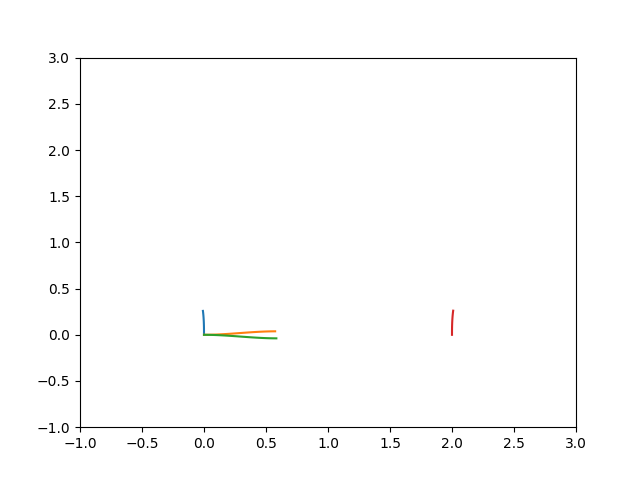
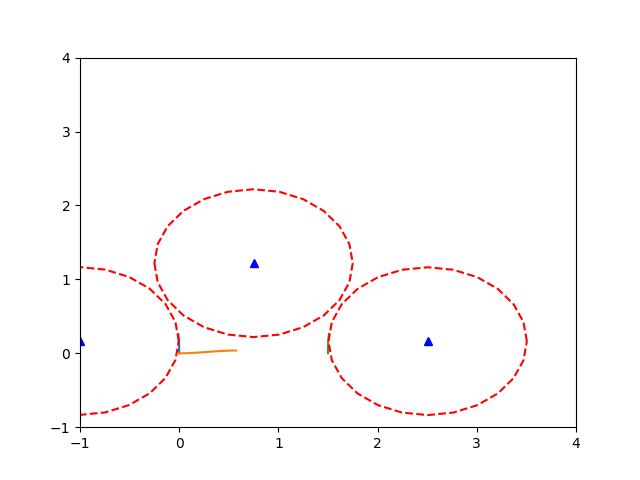
added orientation data to relocatePath function, began checkC1C2 function

diff --git a/BackmanAlgorithm/SmoothPlanner.py b/BackmanAlgorithm/SmoothPlanner.py
@@ -145,9 +145,11 @@ class SmoothPathPlanner:
         elif (len(kTraj) < len(vTraj)) and fromStart:  # cut from start of vTraj
             vTraj = vTraj[len(vTraj) - len(kTraj):len(vTraj)]
         elif (len(kTraj) > len(vTraj)) and not fromStart:
-            vTraj = np.append(vTraj, np.array([vTraj[-1] for i in range((len(kTraj) - len(vTraj)))]), axis=0)
+            vTraj = np.append(vTraj, np.array(
+                [vTraj[-1] for i in range((len(kTraj) - len(vTraj)))]), axis=0)
         elif (len(kTraj) > len(vTraj)) and fromStart:
-            vTraj = np.append(np.array([vTraj[0] for i in range(len(kTraj) - len(vTraj))]), vTraj, axis = 0)
+            vTraj = np.append(
+                np.array([vTraj[0] for i in range(len(kTraj) - len(vTraj))]), vTraj, axis=0)
 
         return {'kTraj': kTraj, 'vTraj': vTraj}
 
@@ -158,47 +160,48 @@ class SmoothPathPlanner:
         """
 
         # find zero point in kTraj
-        kValArray=[np.abs(i[0]) for i in kTraj]
-        vValArray=[np.abs(i[0]) for i in vTraj]
-        kZeroIndex=np.argmin(kValArray)
-        vZeroIndex=np.argmin(vValArray)
+        kValArray = [np.abs(i[0]) for i in kTraj]
+        vValArray = [np.abs(i[0]) for i in vTraj]
+        kZeroIndex = np.argmin(kValArray)
+        vZeroIndex = np.argmin(vValArray)
 
-        kZeroTime=kTraj[kZeroIndex][1]
+        kZeroTime = kTraj[kZeroIndex][1]
 
         if kZeroIndex < vZeroIndex:
-            diff=vZeroIndex - kZeroIndex
-            kTrajExtension=np.array(
+            diff = vZeroIndex - kZeroIndex
+            kTrajExtension = np.array(
                 [[0, kTraj[kZeroIndex] + (i+1)*dT] for i in range(diff)])
-            kTraj=np.insert(kTraj, kZeroIndex, kTrajExtension, axis = 0)
+            kTraj = np.insert(kTraj, kZeroIndex, kTrajExtension, axis=0)
 
             return self.makeTrajectoriesEqualLength(kTraj, vTraj)
         else:
-            diff=kZeroIndex - vZeroIndex
-            vTrajExtension=np.array(
+            diff = kZeroIndex - vZeroIndex
+            vTrajExtension = np.array(
                 [[0, vTraj[kZeroIndex] + (i+1)*dT] for i in range(diff)])
-            vTraj=np.insert(vTraj, vZeroIndex, vTrajExtension, axis = 0)
+            vTraj = np.insert(vTraj, vZeroIndex, vTrajExtension, axis=0)
 
             return self.makeTrajectoriesEqualLength(kTraj, vTraj)
 
-    def relocatePath(self, path, point, relocateStartPoint = True):
+    def relocatePath(self, path, point, relocateStartPoint=True):
         """Use Homogenous Transform to relocate a path to a point
             TODO: optimize function and use Homogenous TF efficiently
+            TODO: get orienttion values
         """
 
         if not (len(path[1]) == len(point)):
             raise ValueError("Path and Point are not of suitable dimension")
 
-        index=0 if relocateStartPoint else -1
-        pathPoint=path[index]
-        tf=point - pathPoint
-        H=np.array([[cos(tf[2]), -sin(tf[2]), 0],
+        index = 0 if relocateStartPoint else -1
+        pathPoint = path[index]
+        tf = point - pathPoint
+        H = np.array([[cos(tf[2]), -sin(tf[2]), 0],
                       [sin(tf[2]), cos(tf[2]), 0], [0, 0, 1]])
-        pathHomogenous=np.array(
+        pathHomogenous = np.array(
             [[i[0]-pathPoint[0], i[1]-pathPoint[1], 1] for i in path]).T
-        pathTF=np.matmul(H, pathHomogenous).T * [1, 1, 0]
+        pathTF = np.matmul(H, pathHomogenous).T * [1, 1, 0] + np.array([[0, 0, i[2]] for i in path])
 
-        pathTF=(pathTF) + [point[0] - pathTF[-1]
-                             [0], point[1] - pathTF[-1][1],  0]
+        pathTF = (pathTF) + [point[0] - pathTF[-1]
+                             [0], point[1] - pathTF[-1][1],  tf[2]]
 
         return pathTF
 
@@ -211,27 +214,82 @@ class SmoothPathPlanner:
         k_C2 = self.k_C2
         k_C3 = self.k_C3
 
-        omega_S2_tC2 = np.array([S2[-1][0] - (k_C2**-1)*sin(S2[-1][2]), S2[-1][1] + (k_C2**-1)*cos(S2[-1][2])])
-        omega_S2_tS2 = np.array([S2[0][0] - (k_C1**-1)*sin(S2[0][2]), S2[0][1] + (k_C1**-1)*cos(S2[0][2])])
+        omega_S2_tC2 = np.array(
+            [S2[-1][0] - (k_C2**-1)*sin(S2[-1][2]), S2[-1][1] + (k_C2**-1)*cos(S2[-1][2])])
+        omega_S2_tS2 = np.array(
+            [S2[0][0] - (k_C1**-1)*sin(S2[0][2]), S2[0][1] + (k_C1**-1)*cos(S2[0][2])])
 
-        omega_S3_tC3 = np.array([S3[-1][0] - (k_C3**-1)*sin(S3[-1][2]), S3[-1][1] + (k_C3**-1)*cos(S3[-1][2])])
-        omega_S3_tS3 = np.array([S3[0][0] - (k_C2**-1)*sin(S3[0][2]), S3[0][1] + (k_C2**-1)*cos(S3[0][2])])
+        omega_S3_tC3 = np.array(
+            [S3[-1][0] - (k_C3**-1)*sin(S3[-1][2]), S3[-1][1] + (k_C3**-1)*cos(S3[-1][2])])
+        omega_S3_tS3 = np.array(
+            [S3[0][0] - (k_C2**-1)*sin(S3[0][2]), S3[0][1] + (k_C2**-1)*cos(S3[0][2])])
 
-        omega_k = np.array([S1[-1][0] - (k_C1**-1)*sin(S1[-1][2]), S1[-1][1] + (k_C1**-1)*cos(S1[-1][2])])
-        omega_kplus2 = np.array([S4[0][0] - (k_C3**-1)*sin(S4[0][2]), S4[0][1] + (k_C3**-1)*cos(S4[0][2])])
+        self.omega_k = np.array(
+            [S1[-1][0] - (k_C1**-1)*sin(S1[-1][2]), S1[-1][1] + (k_C1**-1)*cos(S1[-1][2])])
+        self.omega_kplus2 = np.array(
+            [S4[0][0] - (k_C3**-1)*sin(S4[0][2]), S4[0][1] + (k_C3**-1)*cos(S4[0][2])])
 
-        d1 = np.linalg.norm(omega_S4_tS4 - omega_S1_tC1)
+        d1 = np.linalg.norm(self.omega_kplus2 - self.omega_k)
         d2 = np.linalg.norm(omega_S2_tC2 - omega_S2_tS2)
-        d3 = np.linalg.norm(omega_kplus2 - omega_k)
+        d3 = np.linalg.norm(omega_S3_tC3 - omega_S3_tS3)
 
         l1 = (d2**2 - d3**2 + d1**2)/(2*d1)
-        if(l1 < d2):
+        if(l1 > d2):
             return False
         l2 = np.sqrt(d2**2 - l1**2)
 
         signVal = 1 if (k_C2 < 0) else -1
+        self.omega_kplus1 = self.omega_k + l1*(self.omega_kplus2 - self.omega_k)/d1 + signVal*l2*np.matmul(
+            np.array([[0, -1], [1, 0]]), (self.omega_kplus2 - self.omega_k))/d1
 
-        return omega_k + l1*(omega_kplus2 - omega_k)/d1 + signVal*l2*np.matmul(np.array([[0, -1], [1, 0]]), (omega_kplus2 - omega_k))/d1
+        return self.omega_kplus1
+
+    def searchC1C2(self):
+        S1 = self.S1
+        S2 = self.S2
+        S3 = self.S3
+        S4 = self.S4
+        k_C1 = self.k_C1
+        k_C2 = self.k_C2
+        k_C3 = self.k_C3
+        omega_1 = self.omega_k
+        omega_2 = self.omega_kplus1
+        omega_3 = self.omega_kplus2
+
+        searchResolution = 200
+        serachTolerance = 0.5
+        thetaSearch = np.linspace(0, 2*np.pi, searchResolution)
+
+        thetaAB = S2[-1][2] - S2[0][2]
+        rAB = np.array([S2[-1][0] - S2[0][0], S2[-1][1] - S2[0][1]])
+        
+        bestNorm = 100000
+
+        for theta in thetaSearch:
+            thetaT = theta + np.pi/2.0
+            R = np.array([[cos(thetaT), -sin(thetaT)], [sin(thetaT), cos(thetaT)]])
+            rAB = np.matmul(R,rAB)
+            pointA = np.array(
+                [(k_C1**-1)*cos(theta) + omega_1[0], (k_C1**-1)*sin(theta) + omega_1[1]])
+            thetaTangentA = np.pi/2.0 + theta
+            pointB = np.array([pointA[0] + rAB[0], pointA[0] + rAB[1]])
+            thetaTangentB = np.pi/2.0 + thetaAB
+
+            theta2 = -1*np.pi/2.0 - thetaTangentB
+
+            pointOnCircle2 = np.array(
+                [-1*(k_C2**-1)*cos(-1*theta2) + omega_2[0], (k_C2**-1)*sin(-1*theta2) + omega_2[1]])
+
+            currentNorm = np.linalg.norm(pointB - pointOnCircle2)
+            if (currentNorm < bestNorm):
+                bestNorm = currentNorm
+                bestPoint = pointA
+
+        if (bestNorm < serachTolerance):
+            return np.array([bestPoint[0], bestPoint[1], -1*thetaTangentB])
+        else:
+            raise ValueError("Search of C1 C2 failed.")
+            print("Best Norm", bestNorm)
 
     def plan(self, dT):
 
@@ -297,7 +355,7 @@ class SmoothPathPlanner:
                     len_v_S2 = len(v_S2)
                     extend_v_S2 = np.array([[v_S1[-1][0], 0]
                                             for i in range(len(K_S2) - len_v_S2)])
-                    v_S2 = np.append(v_S2, extend_v_S2, axis = 0)
+                    v_S2 = np.append(v_S2, extend_v_S2, axis=0)
                     # print(len(v_S2))
                     # print(len(K_S2))
                 else:
@@ -322,7 +380,7 @@ class SmoothPathPlanner:
                     len_v_S3 = len(v_S3)
                     extend_v_S3 = np.array([[v_S4[-1][0], 0]
                                             for i in range(len(K_S3) - len_v_S3)])
-                    v_S3 = np.append(v_S3,extend_v_S3, axis = 0)
+                    v_S3 = np.append(v_S3, extend_v_S3, axis=0)
                     # print(len(v_S2))
                     # print(len(K_S2))
                 else:
@@ -331,30 +389,36 @@ class SmoothPathPlanner:
                 self.S3 = self.integrateTrajectory(K_S3, v_S3, xo)
 
             ################ generate center arc ################
-            if self.k_C2 > 0.05: #center is an arc
+            if np.abs(self.k_C2) > 0.05:  # center is an arc
                 omega_C2 = self.calculateCenterArc()
 
-                if not omega_C2 return False
+                if omega_C2.all() == False:
+                    return False
 
-
-            
-
-
-
-
+            relocatePoint = self.searchC1C2()
+            self.S2 = self.relocatePath(self.S2, relocatePoint)
 
             self.path_is_not_feasible = False
-
-        
-
 
         # plotting stuff
         plt.plot([i[0] for i in self.S1], [i[1] for i in self.S1])
         plt.plot([i[0] for i in self.S2], [i[1] for i in self.S2])
-        plt.plot([i[0] for i in self.S3], [i[1] for i in self.S3])
+        #plt.plot([i[0] for i in self.S3], [i[1] for i in self.S3])
         plt.plot([i[0] for i in self.S4], [i[1] for i in self.S4])
-        plt.xlim([-1, 3])
-        plt.ylim([-1, 3])
+
+        plt.plot(self.omega_k[0], self.omega_k[1], 'b^')
+        plt.plot(self.omega_kplus1[0], self.omega_kplus1[1], 'b^')
+        plt.plot(self.omega_kplus2[0], self.omega_kplus2[1], 'b^')
+
+        plt.plot([(self.k_C1**-1)*cos(theta) + self.omega_k[0] for theta in np.linspace(0, 2*np.pi, 25)],
+                 [(self.k_C1**-1)*sin(theta) + self.omega_k[1] for theta in np.linspace(0, 2*np.pi, 25)], 'r--')
+        plt.plot([(self.k_C2**-1)*cos(theta) + self.omega_kplus1[0] for theta in np.linspace(0, 2*np.pi, 25)],
+                 [(self.k_C2**-1)*sin(theta) + self.omega_kplus1[1] for theta in np.linspace(0, 2*np.pi, 25)], 'r--')
+        plt.plot([(self.k_C3**-1)*cos(theta) + self.omega_kplus2[0] for theta in np.linspace(0, 2*np.pi, 25)],
+                 [(self.k_C3**-1)*sin(theta) + self.omega_kplus2[1] for theta in np.linspace(0, 2*np.pi, 25)], 'r--')
+
+        plt.xlim([-1, 4])
+        plt.ylim([-1, 4])
         plt.savefig("trajectory.png")
 
         return self.path
@@ -364,7 +428,7 @@ def main():
 
     # x pos., ypos., orientation, speed, curvature
     initialState = SmoothPathState(0, 0, 0.5*np.pi, 1, 0)
-    finalState = SmoothPathState(2, 0, -0.5*np.pi, 1, 0)
+    finalState = SmoothPathState(1.5, 0, -0.5*np.pi, 1, 0)
     turningRadius = 1.0  # m
     dT = 0.005
 
@@ -398,7 +462,6 @@ def main():
     # L1R1L = [KMax, KMin, KMax, True]
 
     planSmoothInst = SmoothPathPlanner()
-
 
     pathType = LRL
     planSmoothInst.setConstraints(
